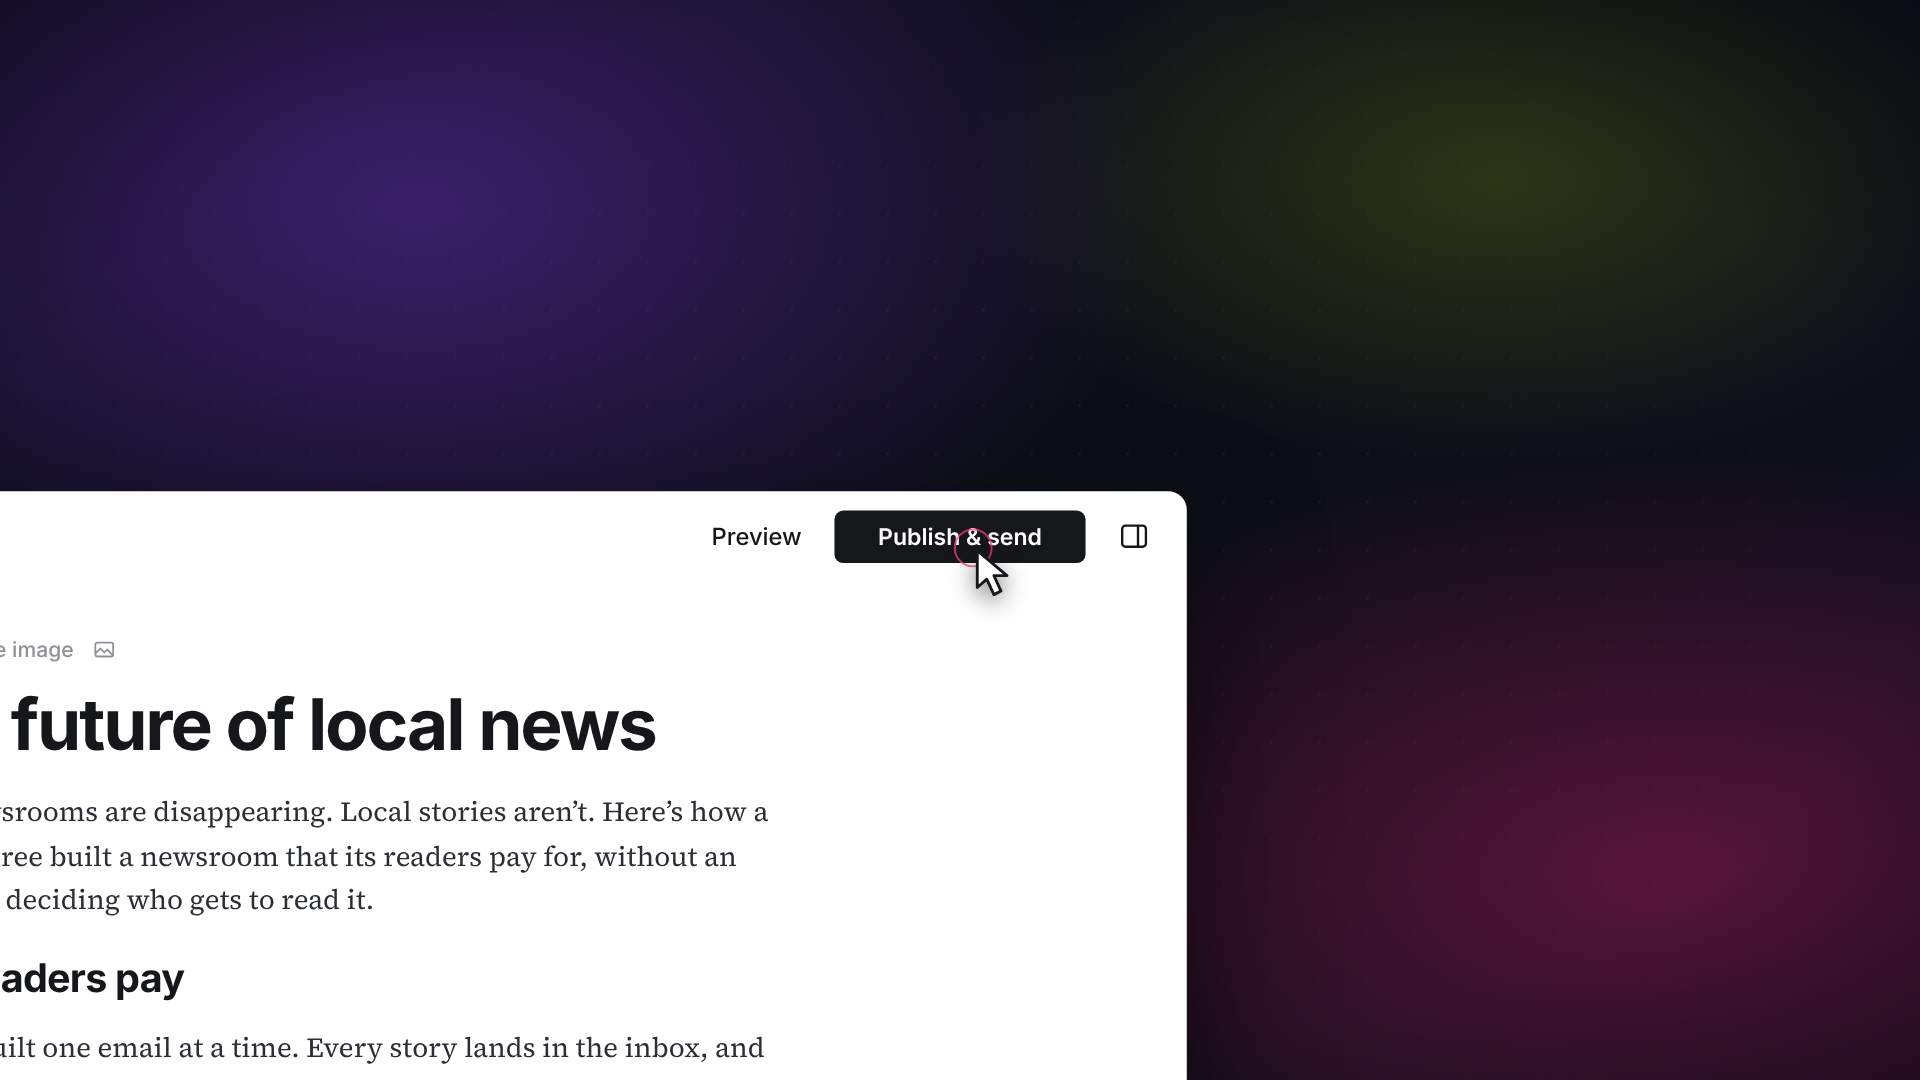
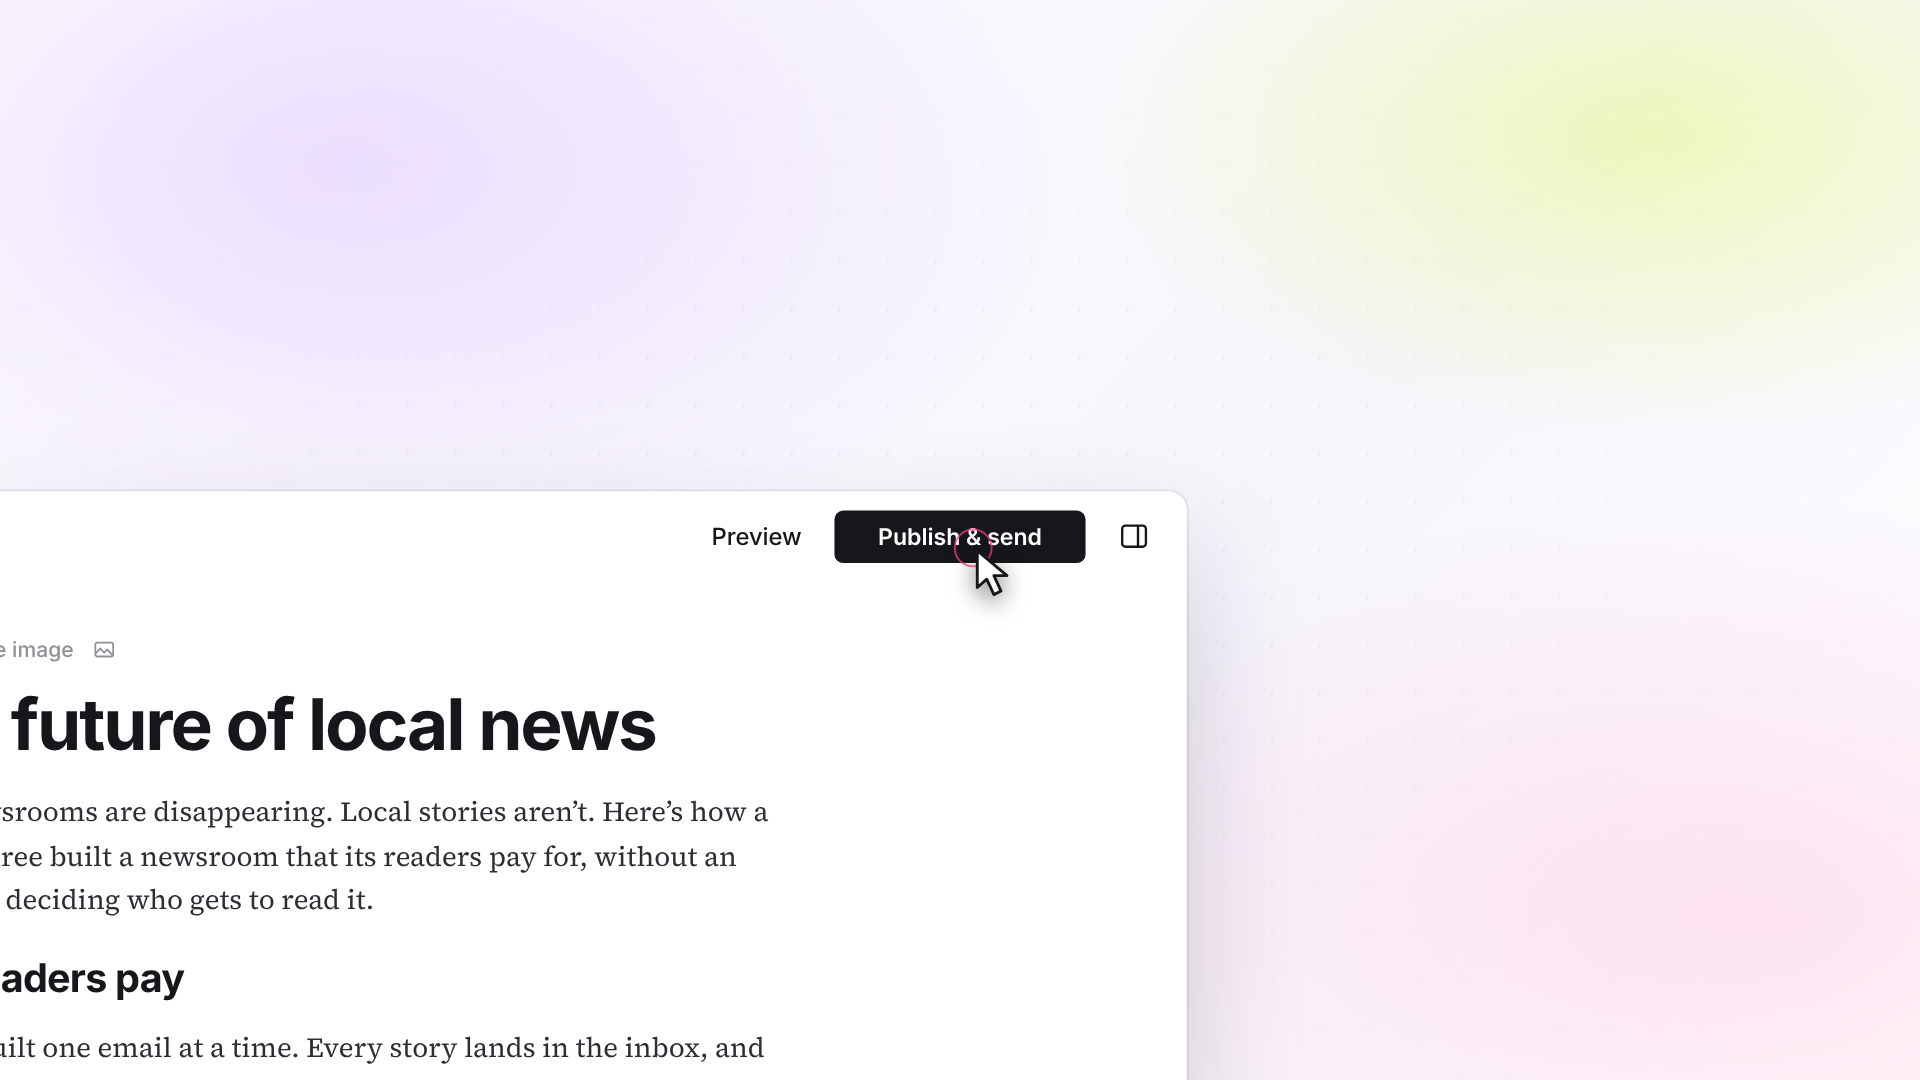
Switch to a white gradient stage (ghost.org hero style)
White base with soft pink/rose washes in the problem scenes shifting to
lilac and lime for Ghost. Headlines in dark ink; solution accents in
Ghost purple; black logo on the CTA; softer shadows for light ground.

Claude-Session: https://claude.ai/code/session_01Bj9t4gh9dBD7VUE8NbaYEj

diff --git a/ghost-launch/src/components/Stage.tsx b/ghost-launch/src/components/Stage.tsx
@@ -25,41 +25,39 @@ const mix = (a: number[], b: number[], t: number) => a.map((v, k) => Math.round(
 const rgba = (c: number[], a: number) => `rgba(${c[0]},${c[1]},${c[2]},${a})`;
 
 /**
- * Animated gradient ground in Ghost colors. warm: 0 = problem (pink/magenta, tense), 1 = Ghost (purple + lime).
- * Three soft colour fields drift slowly over a dark diagonal base, so nothing ever fully stops.
+ * White gradient ground in Ghost colours (like the ghost.org hero). warm: 0 = problem (soft pink/rose), 1 = Ghost (lilac + lime).
+ * Soft colour washes drift slowly over a white base, so nothing ever fully stops.
  */
 export const Background: React.FC<{ f: number; warm?: number; parallax?: number }> = ({ f, warm = 0, parallax = 0 }) => {
   const w = Math.max(0, Math.min(1, warm));
-  const base1 = mix([24, 14, 22], [16, 14, 32], w); // deep wine → deep indigo
-  const base2 = mix([14, 15, 18], [12, 14, 22], w);
+  const base2 = mix([252, 246, 249], [246, 245, 252], w); // blush white → lilac white
   const blobA = mix([255, 36, 125], [142, 66, 255], w); // pink → purple
-  const blobB = mix([142, 30, 90], [255, 36, 125], w); // magenta → pink
-  const blobC = mix([90, 40, 160], [209, 255, 25], w); // violet → lime
-  const ax = 22 + drift(f, 8, 900), ay = 20 + drift(f, 6, 1100, 1);
-  const bx = 80 + drift(f, 7, 1000, 2), by = 78 + drift(f, 6, 950, 3);
-  const cx = 70 + drift(f, 9, 1300, 4), cy = 18 + drift(f, 5, 1200, 5);
+  const blobB = mix([255, 140, 190], [255, 120, 180], w); // rose
+  const blobC = mix([200, 170, 255], [209, 255, 25], w); // lilac → lime
+  const ax = 18 + drift(f, 8, 900), ay = 16 + drift(f, 6, 1100, 1);
+  const bx = 84 + drift(f, 7, 1000, 2), by = 82 + drift(f, 6, 950, 3);
+  const cx = 78 + drift(f, 9, 1300, 4), cy = 14 + drift(f, 5, 1200, 5);
   const gx = drift(f, 20, 900) - parallax * 0.15;
   const gy = drift(f, 14, 1100, 1);
   return (
-    <AbsoluteFill style={{ background: `linear-gradient(${135 + drift(f, 6, 1400)}deg, ${rgba(base1, 1)} 0%, ${rgba(base2, 1)} 55%, ${rgba(base1, 1)} 100%)`, overflow: "hidden" }}>
+    <AbsoluteFill style={{ background: `linear-gradient(${135 + drift(f, 6, 1400)}deg, #FFFFFF 0%, ${rgba(base2, 1)} 60%, #FFFFFF 100%)`, overflow: "hidden" }}>
       <AbsoluteFill
         style={{
           background: [
-            `radial-gradient(ellipse 55% 60% at ${ax}% ${ay}%, ${rgba(blobA, 0.34)}, transparent 70%)`,
-            `radial-gradient(ellipse 60% 55% at ${bx}% ${by}%, ${rgba(blobB, 0.3)}, transparent 70%)`,
-            `radial-gradient(ellipse 40% 38% at ${cx}% ${cy}%, ${rgba(blobC, 0.1 + 0.06 * w)}, transparent 70%)`,
+            `radial-gradient(ellipse 55% 60% at ${ax}% ${ay}%, ${rgba(blobA, 0.16)}, transparent 70%)`,
+            `radial-gradient(ellipse 60% 55% at ${bx}% ${by}%, ${rgba(blobB, 0.2)}, transparent 70%)`,
+            `radial-gradient(ellipse 42% 40% at ${cx}% ${cy}%, ${rgba(blobC, 0.18 + 0.1 * w)}, transparent 70%)`,
           ].join(", "),
         }}
       />
       <AbsoluteFill
         style={{
-          backgroundImage: `radial-gradient(rgba(255,255,255,0.07) 1.2px, transparent 1.2px)`,
+          backgroundImage: `radial-gradient(rgba(17,34,32,0.09) 1.2px, transparent 1.2px)`,
           backgroundSize: "48px 48px",
           backgroundPosition: `${gx}px ${gy}px`,
           maskImage: "radial-gradient(ellipse 70% 70% at 50% 50%, black 30%, transparent 100%)",
         }}
       />
-      <AbsoluteFill style={{ background: "radial-gradient(ellipse 90% 90% at 50% 50%, transparent 55%, rgba(0,0,0,0.5) 100%)" }} />
     </AbsoluteFill>
   );
 };

diff --git a/ghost-launch/src/scenes/S1Hook.tsx b/ghost-launch/src/scenes/S1Hook.tsx
@@ -15,7 +15,7 @@ export const S1Hook: React.FC = () => {
   const p = Array.from({ length: INSERTS }, (_, k) => enter(f, 22 + 12 * k));
   const sumTo = (k: number) => p.slice(0, k + 1).reduce((a, b) => a + b, 0);
   const yMine = STEP * sumTo(INSERTS - 1) - 40;
-  const feedDim = tw(f, 96, 130, 1, 0.22);
+  const feedDim = tw(f, 96, 130, 1, 0.1);
   const feedBlur = tw(f, 96, 130, 0, 6);
   const out = exit(f, 222);
 
@@ -39,15 +39,15 @@ export const S1Hook: React.FC = () => {
           ))}
         </AbsoluteFill>
         <At y={0}>
-          <Kinetic f={f} start={108} lines={[COPY.hook.l1, COPY.hook.l2]} accent={COPY.hook.accent} accentColor={COPY.hook.accentColor as "pink" | "lime"} size={150} offset={5} dimLine={1} exitAt={222} />
+          <Kinetic f={f} start={108} lines={[COPY.hook.l1, COPY.hook.l2]} accent={COPY.hook.accent} accentColor={COPY.hook.accentColor as "pink" | "lime" | "purple"} size={150} offset={5} dimLine={1} exitAt={222} />
         </At>
       </Camera>
       {/* reach counter, top-right, inside the 5% title-safe area */}
       <At x={650} y={-420} style={{ opacity: Math.min(1, reachIn) * out, transform: `translate(-50%,-50%) translate(650px, ${-420 + (1 - reachIn) * 20}px)` }}>
         <div style={{ display: "flex", flexDirection: "column", alignItems: "flex-end", gap: 6, width: 300 }}>
-          <div style={sans(600, 18, { color: COLORS.mute, letterSpacing: "0.14em" })}>REACH</div>
-          <div style={sans(800, 64, { letterSpacing: "-0.04em", color: reach < 50 ? COLORS.pink : COLORS.ink, fontVariantNumeric: "tabular-nums" })}>{reach}%</div>
-          <div style={{ width: 300, height: 8, borderRadius: 4, background: COLORS.panel2, overflow: "hidden" }}>
+          <div style={sans(600, 18, { color: COLORS.textMute, letterSpacing: "0.14em" })}>REACH</div>
+          <div style={sans(800, 64, { letterSpacing: "-0.04em", color: reach < 50 ? COLORS.pink : COLORS.text, fontVariantNumeric: "tabular-nums" })}>{reach}%</div>
+          <div style={{ width: 300, height: 8, borderRadius: 4, background: "#E2E4EA", overflow: "hidden" }}>
             <div style={{ width: `${tw(f, 40, 100, 100, 6, easeOut)}%`, height: "100%", background: COLORS.pink, marginLeft: "auto" }} />
           </div>
         </div>

diff --git a/ghost-launch/src/components/UI.tsx b/ghost-launch/src/components/UI.tsx
@@ -10,7 +10,7 @@ export const Window: React.FC<{ title: string; w: number; h: number; style?: Rea
   <div
     style={{
       width: w, height: h, borderRadius: 18, background: COLORS.panel, border: `2px solid ${accent ? COLORS.pink : COLORS.line}`,
-      boxShadow: "0 30px 60px rgba(0,0,0,.45)", overflow: "hidden", display: "flex", flexDirection: "column", ...style,
+      boxShadow: "0 30px 60px rgba(17,24,39,.22)", overflow: "hidden", display: "flex", flexDirection: "column", ...style,
     }}
   >
     <div style={{ height: 46, display: "flex", alignItems: "center", gap: 9, padding: "0 18px", borderBottom: `1.5px solid ${COLORS.line}`, background: COLORS.bg2 }}>
@@ -41,7 +41,7 @@ export const FeedCard: React.FC<{ mine?: boolean; seed: number; style?: React.CS
     <div
       style={{
         width: 620, height: 220, borderRadius: 20, background: COLORS.panel, border: `2.5px solid ${mine ? COLORS.pink : COLORS.line}`,
-        padding: 24, display: "flex", gap: 20, boxShadow: mine ? "0 0 60px rgba(255,61,127,.25)" : "0 20px 40px rgba(0,0,0,.35)", ...style,
+        padding: 24, display: "flex", gap: 20, boxShadow: mine ? "0 0 60px rgba(255,36,125,.25)" : "0 20px 40px rgba(17,24,39,.18)", ...style,
       }}
     >
       <div style={{ width: 56, height: 56, borderRadius: 28, background: mine ? COLORS.pink : t, flexShrink: 0 }} />
@@ -95,9 +95,9 @@ export const Donut: React.FC<{ size: number; slicePct: number; sliceOffset?: { x
 };
 
 /** Official Ghost logo (white, from ghost.org). `reveal` 0..1 wipes it in from the left. */
-export const GhostLogo: React.FC<{ width: number; reveal?: number }> = ({ width, reveal = 1 }) => (
+export const GhostLogo: React.FC<{ width: number; reveal?: number; variant?: "white" | "black" }> = ({ width, reveal = 1, variant = "white" }) => (
   <Img
-    src={staticFile("brand/ghost-logo-white.png")}
+    src={staticFile(`brand/ghost-logo-${variant}.png`)}
     style={{ width, height: width * (294 / 800), display: "block", clipPath: `inset(0 ${100 - reveal * 100}% 0 0)` }}
   />
 );

diff --git a/ghost-launch/src/scenes/S5Cta.tsx b/ghost-launch/src/scenes/S5Cta.tsx
@@ -31,11 +31,11 @@ export const S5Cta: React.FC = () => {
       <Camera f={f} push={0.00014}>
         <At y={-190 + drift(f, 4, 280)}>
           <div style={{ opacity: Math.min(1, logoIn * 1.5), transform: `scale(${0.94 + 0.06 * logoIn})` }}>
-            <GhostLogo width={560} reveal={wipe} />
+            <GhostLogo width={560} reveal={wipe} variant="black" />
           </div>
         </At>
         <At y={10 + drift(f, 3, 280, 1)}>
-          <div style={{ ...sans(700, 66, { letterSpacing: "-0.035em", whiteSpace: "nowrap" }), opacity: Math.min(1, tag * 1.5), transform: `translateY(${(1 - tag) * 28}px)` }}>
+          <div style={{ ...sans(700, 66, { letterSpacing: "-0.035em", whiteSpace: "nowrap", color: COLORS.text }), opacity: Math.min(1, tag * 1.5), transform: `translateY(${(1 - tag) * 28}px)` }}>
             {COPY.cta.tagline}
           </div>
         </At>
@@ -44,14 +44,14 @@ export const S5Cta: React.FC = () => {
             style={{
               ...sans(700, 32, { color: COLORS.paperInk, letterSpacing: "-0.01em" }), background: COLORS.lime, borderRadius: 12, padding: "22px 40px",
               opacity: Math.min(1, btn * 1.5), transform: `translateY(${(1 - btn) * 30}px) scale(${press(f, PRESS)})`,
-              boxShadow: `0 16px ${40 + 30 * glow}px rgba(209,255,25,${0.18 + 0.17 * glow})`, whiteSpace: "nowrap",
+              boxShadow: `0 0 0 1.5px rgba(17,34,32,.12), 0 16px ${36 + 24 * glow}px rgba(120,160,0,${0.22 + 0.15 * glow})`, whiteSpace: "nowrap",
             }}
           >
             {COPY.cta.button} →
           </div>
         </At>
         <At y={262 + drift(f, 3, 280, 3)}>
-          <div style={{ ...sans(500, 24, { color: COLORS.mute, whiteSpace: "nowrap" }), opacity: Math.min(1, sub * 1.5) }}>{COPY.cta.sub}</div>
+          <div style={{ ...sans(500, 24, { color: COLORS.textMute, whiteSpace: "nowrap" }), opacity: Math.min(1, sub * 1.5) }}>{COPY.cta.sub}</div>
         </At>
       </Camera>
     </AbsoluteFill>

diff --git a/ghost-launch/src/components/GhostEditor.tsx b/ghost-launch/src/components/GhostEditor.tsx
@@ -18,7 +18,7 @@ const Para: React.FC<{ text: string; p: number }> = ({ text, p }) => (
 export const GhostEditor: React.FC<{ typed: number; body: number[]; btnScale: number; btnDone: number; caret: boolean }> = ({ typed, body, btnScale, btnDone, caret }) => {
   const title = COPY.fix.postTitle.slice(0, typed);
   return (
-    <div style={{ width: ED_W, height: ED_H, borderRadius: 14, background: COLORS.paper, overflow: "hidden", boxShadow: "0 50px 100px rgba(0,0,0,.55)", position: "relative" }}>
+    <div style={{ width: ED_W, height: ED_H, borderRadius: 14, background: COLORS.paper, overflow: "hidden", boxShadow: "0 0 0 1.5px rgba(17,24,39,.08), 0 40px 90px rgba(17,24,39,.18)", position: "relative" }}>
       {/* top bar */}
       <div style={{ height: 68, display: "flex", alignItems: "center", padding: "0 28px", gap: 22 }}>
         <div style={sans(600, 18, { color: INK })}>‹&nbsp; Posts</div>
@@ -63,7 +63,7 @@ export const Channel: React.FC<{ label: string; lit: number }> = ({ label, lit }
     <div
       style={{
         width: 300, height: 84, borderRadius: 12, display: "flex", alignItems: "center", gap: 16, padding: "0 26px", boxSizing: "border-box",
-        background: COLORS.panel, border: `2px solid ${on ? COLORS.lime : COLORS.line}`, boxShadow: on ? `0 0 ${36 * lit}px rgba(209,255,25,.22)` : "none",
+        background: COLORS.panel, border: `2px solid ${on ? COLORS.lime : COLORS.line}`, boxShadow: on ? `0 12px ${30 * lit}px rgba(17,24,39,.25)` : "0 10px 24px rgba(17,24,39,.12)",
       }}
     >
       <div style={{ width: 16, height: 16, borderRadius: 8, background: on ? COLORS.lime : COLORS.faint, transform: `scale(${1 + 0.4 * Math.sin(Math.PI * Math.min(1, lit))})` }} />

diff --git a/ghost-launch/src/scenes/S3Fix.tsx b/ghost-launch/src/scenes/S3Fix.tsx
@@ -77,7 +77,7 @@ export const S3Fix: React.FC = () => {
               </At>
               {fly > 0 && fly < 1 && (
                 <At x={cx * fly} y={ED_UP + (CH_Y - ED_UP) * fly - Math.sin(Math.PI * fly) * 80}>
-                  <div style={{ width: 120, height: 72, borderRadius: 10, background: "#FBFBFA", boxShadow: "0 10px 30px rgba(209,255,25,.35)", transform: `scale(${1 - 0.5 * fly}) rotate(${(k - 1.5) * 8 * fly}deg)`, borderTop: `10px solid ${COLORS.paperInk}` }} />
+                  <div style={{ width: 120, height: 72, borderRadius: 10, background: "#FBFBFA", boxShadow: "0 10px 30px rgba(17,24,39,.3)", transform: `scale(${1 - 0.5 * fly}) rotate(${(k - 1.5) * 8 * fly}deg)`, borderTop: `10px solid ${COLORS.paperInk}` }} />
                 </At>
               )}
             </React.Fragment>
@@ -86,9 +86,9 @@ export const S3Fix: React.FC = () => {
         <Cursor f={f} keys={cursorKeys} opacity={tw(f, 150, 160, 0, 1) * tw(f, 262, 276, 1, 0, easeIn)} />
       </Camera>
       <At y={410}>
-        <Kinetic f={f} start={344} lines={[COPY.fix.line]} accent={COPY.fix.accent} accentColor={COPY.fix.accentColor as "pink" | "lime"} size={72} offset={5} exitAt={462} />
+        <Kinetic f={f} start={344} lines={[COPY.fix.line]} accent={COPY.fix.accent} accentColor={COPY.fix.accentColor as "pink" | "lime" | "purple"} size={72} offset={5} exitAt={462} />
       </At>
-      <AbsoluteFill style={{ background: COLORS.bg, opacity: tw(f, 466, 480, 0, 1) }} />
+      <AbsoluteFill style={{ background: "#FFFFFF", opacity: tw(f, 466, 480, 0, 1) }} />
     </AbsoluteFill>
   );
 };

diff --git a/ghost-launch/src/scenes/S2Problem.tsx b/ghost-launch/src/scenes/S2Problem.tsx
@@ -85,10 +85,10 @@ export const S2Problem: React.FC = () => {
         <Cursor f={f} keys={keys} opacity={tw(f, 55, 65, 0, 1) * cursorOut} />
       </Camera>
       <At y={370}>
-        <Kinetic f={f} start={315} lines={[COPY.problem.line.slice(0, 4), COPY.problem.line.slice(4)]} accent={COPY.problem.accent} accentColor={COPY.problem.accentColor as "pink" | "lime"} size={76} offset={4} lineGap={2} exitAt={402} />
+        <Kinetic f={f} start={315} lines={[COPY.problem.line.slice(0, 4), COPY.problem.line.slice(4)]} accent={COPY.problem.accent} accentColor={COPY.problem.accentColor as "pink" | "lime" | "purple"} size={76} offset={4} lineGap={2} exitAt={402} />
       </At>
       <At y={-170} style={{ opacity: tw(f, 300, 320, 0, 1) * exit(f, 402) }}>
-        <div style={sans(600, 20, { color: COLORS.mute, letterSpacing: "0.16em" })}>$121 / MONTH · BEFORE THE {COPY.problem.feePct}% CUT</div>
+        <div style={sans(600, 20, { color: COLORS.textMute, letterSpacing: "0.16em" })}>$121 / MONTH · BEFORE THE {COPY.problem.feePct}% CUT</div>
       </At>
     </AbsoluteFill>
   );

diff --git a/ghost-launch/src/components/Dashboard.tsx b/ghost-launch/src/components/Dashboard.tsx
@@ -66,7 +66,7 @@ export const Dashboard: React.FC<{ f: number }> = ({ f }) => {
   const mrrPts = [8, 12, 10, 15, 14, 19, 22, 21, 27, 30].map((v, i) => [i * 24, 46 - v * 1.4]);
 
   return (
-    <div style={{ width: DB_W, height: DB_H, borderRadius: 18, background: COLORS.bg, border: `1.5px solid ${COLORS.line}`, display: "flex", overflow: "hidden", boxShadow: "0 60px 120px rgba(0,0,0,.6)", position: "relative" }}>
+    <div style={{ width: DB_W, height: DB_H, borderRadius: 18, background: COLORS.bg, border: `1.5px solid ${COLORS.line}`, display: "flex", overflow: "hidden", boxShadow: "0 50px 100px rgba(17,24,39,.28)", position: "relative" }}>
       {/* sidebar */}
       <div style={{ width: SIDE, borderRight: `1.5px solid ${COLORS.line}`, padding: "26px 24px", boxSizing: "border-box", display: "flex", flexDirection: "column", gap: 2 }}>
         <div style={{ display: "flex", alignItems: "center", gap: 12, marginBottom: 22 }}>

diff --git a/ghost-launch/src/components/Kinetic.tsx b/ghost-launch/src/components/Kinetic.tsx
@@ -11,7 +11,7 @@ export const Kinetic: React.FC<{
   lines: string[][];
   start: number;
   accent?: string;
-  accentColor?: "pink" | "lime";
+  accentColor?: "pink" | "lime" | "purple";
   size?: number;
   offset?: number;
   lineGap?: number;
@@ -39,7 +39,7 @@ export const Kinetic: React.FC<{
                   lineHeight: 1.04,
                   letterSpacing: "-0.035em",
                   paddingRight: isAcc ? size * 0.04 : 0,
-                  color: isAcc ? COLORS[accentColor] : li === dimLine ? COLORS.mute : COLORS.ink,
+                  color: isAcc ? COLORS[accentColor] : li === dimLine ? COLORS.textMute : COLORS.text,
                   opacity: Math.min(1, Math.max(0, p * 1.6)),
                   transform: `translateY(${(1 - p) * size * 0.55}px) scale(${0.92 + 0.08 * p})`,
                   filter: `blur(${Math.max(0, (1 - p) * 10)}px)`,

diff --git a/ghost-launch/src/config.ts b/ghost-launch/src/config.ts
@@ -30,6 +30,9 @@ export const COLORS = {
   yellow: "#FFC52E",
   paper: "#FFFFFF",
   paperInk: "#15171A",
+  // On the white gradient stage (ghost.org hero: dark ink on white)
+  text: "#112220",
+  textMute: "#64748B",
 };
 
 export const FONTS = {
@@ -53,14 +56,14 @@ export const COPY = {
     channels: ["Website", "Newsletter", "Members", "Social web"],
     line: ["One", "place.", "Ghost."],
     accent: "Ghost.",
-    accentColor: "lime",
+    accentColor: "purple",
   },
   payoff: {
     members: 2480,
     revenue: 1000,
     line: ["Your", "audience.", "Your", "revenue."],
     accent: "revenue.",
-    accentColor: "lime",
+    accentColor: "purple",
     feeNote: "0% platform fees",
   },
   cta: {

diff --git a/ghost-launch/src/scenes/S4Payoff.tsx b/ghost-launch/src/scenes/S4Payoff.tsx
@@ -28,7 +28,7 @@ export const S4Payoff: React.FC = () => {
         </At>
       </Camera>
       <At y={415}>
-        <Kinetic f={f} start={150} lines={[COPY.payoff.line]} accent={COPY.payoff.accent} accentColor={COPY.payoff.accentColor as "pink" | "lime"} size={72} offset={5} exitAt={342} />
+        <Kinetic f={f} start={150} lines={[COPY.payoff.line]} accent={COPY.payoff.accent} accentColor={COPY.payoff.accentColor as "pink" | "lime" | "purple"} size={72} offset={5} exitAt={342} />
       </At>
     </AbsoluteFill>
   );

diff --git a/ghost-launch/src/Video.tsx b/ghost-launch/src/Video.tsx
@@ -8,7 +8,7 @@ import { S4Payoff } from "./scenes/S4Payoff";
 import { S5Cta } from "./scenes/S5Cta";
 
 export const GhostLaunch: React.FC = () => (
-  <AbsoluteFill style={{ background: COLORS.bg }}>
+  <AbsoluteFill style={{ background: "#FFFFFF" }}>
     <Series>
       <Series.Sequence durationInFrames={SCENES.hook}><S1Hook /></Series.Sequence>
       <Series.Sequence durationInFrames={SCENES.problem}><S2Problem /></Series.Sequence>
